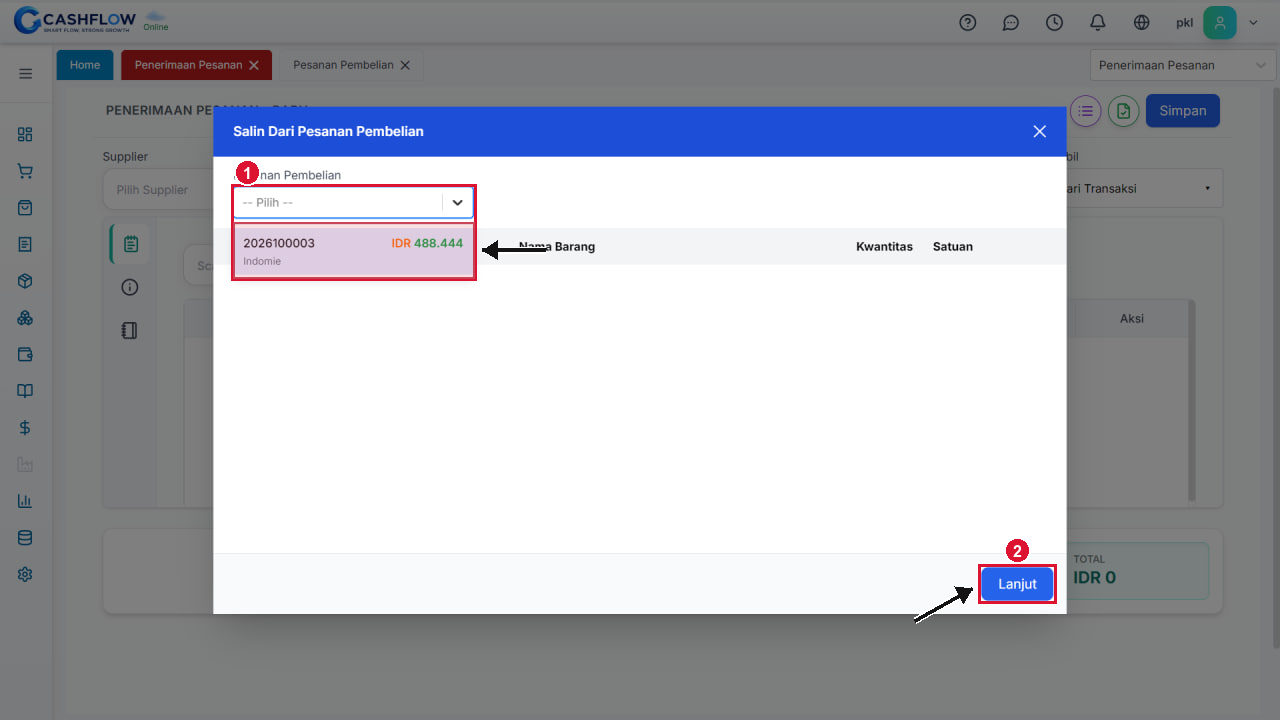
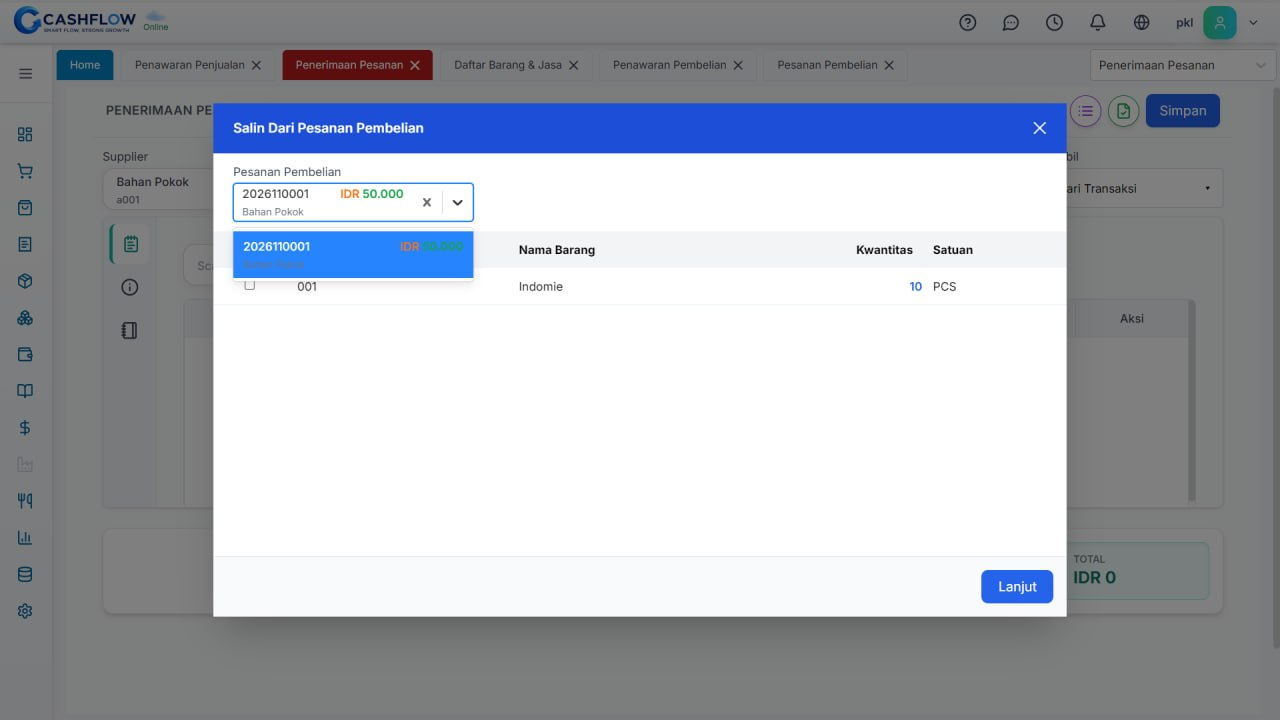
feat(docs): update screenshot aset dan teks langkah penerimaan barang sesuai UI terbaru

diff --git a/web-docs/src/pages/pembelian/02-penerimaan-barang/penerimaan-barang-dari-pesanan.tsx b/web-docs/src/pages/pembelian/02-penerimaan-barang/penerimaan-barang-dari-pesanan.tsx
@@ -45,7 +45,7 @@ export const PenerimaanBarangDariPesanan: React.FC<ArticleProps> = ({ onBack }) 
         <div className="steps-container">
           <div key={1} className="step-section">
             <h3 className="step-title">1. Buka formulir Penerimaan Barang dan Pilih Supplier</h3>
-            <p className="step-description">Masuk ke menu Pembelian ➔ Penerimaan Barang. Pilih nama Supplier yang sesuai dengan supplier penerbit PO.</p>
+            <p className="step-description">Masuk ke menu Pembelian ➔ Penerimaan Barang. Pilih nama Supplier (contoh: Bahan Pokok / a001) yang sesuai dengan pemasok penerbit PO.</p>
             <div className="capture-image-frame" style={{ marginTop: '14px', borderRadius: '8px', overflow: 'hidden', border: '1px solid #cbd5e1', boxShadow: '0 4px 6px -1px rgba(0, 0, 0, 0.08)' }}>
               <div className="capture-header-bar">
                 <div className="window-dots">
@@ -58,7 +58,7 @@ export const PenerimaanBarangDariPesanan: React.FC<ArticleProps> = ({ onBack }) 
                 </div>
               </div>
               <img src="/images/pembelian/cashflow_penerimaan_langkah_1.png" alt="Buka formulir Penerimaan Barang dan Pilih Supplier" style={{ width: '100%', height: 'auto', display: 'block' }} />
-              <div style={{ padding: '8px 12px', background: '#f8fafc', borderTop: '1px solid #e2e8f0', fontSize: '13px', color: '#64748b' }}>Gambar 1: Membuka formulir Penerimaan Barang dan memilih pemasok</div>
+              <div style={{ padding: '8px 12px', background: '#f8fafc', borderTop: '1px solid #e2e8f0', fontSize: '13px', color: '#64748b' }}>Gambar 1: Membuka formulir Penerimaan Barang dan memilih pemasok Bahan Pokok (a001)</div>
             </div>
           </div>
 
@@ -77,14 +77,14 @@ export const PenerimaanBarangDariPesanan: React.FC<ArticleProps> = ({ onBack }) 
                 </div>
               </div>
               <img src="/images/pembelian/cashflow_penerimaan_langkah_2.png" alt="Klik tombol Ambil ➔ Pilih Pesanan Pembelian" style={{ width: '100%', height: 'auto', display: 'block' }} />
-              <div style={{ padding: '8px 12px', background: '#f8fafc', borderTop: '1px solid #e2e8f0', fontSize: '13px', color: '#64748b' }}>Gambar 2: Memilih opsi pengambilan data dari Pesanan Pembelian</div>
+              <div style={{ padding: '8px 12px', background: '#f8fafc', borderTop: '1px solid #e2e8f0', fontSize: '13px', color: '#64748b' }}>Gambar 2: Mengklik opsi Ambil lalu memilih Pesanan Pembelian</div>
             </div>
           </div>
 
           <div key={3} className="step-section">
             <h3 className="step-title">3. Pilih Nomor Transaksi PO dan Klik Lanjut</h3>
-            <p className="step-description">Pilih nomor dokumen PO yang barangnya sedang diterima, centang item barang yang datang, lalu klik tombol Lanjut.</p>
-            <div className="capture-placeholder-frame">
+            <p className="step-description">Pada modal Salin Dari Pesanan Pembelian, pilih nomor transaksi PO terkait (contoh: nomor 2026110001 senilai IDR 50.000 atas item Indomie 10 PCS), periksa rincian barang, lalu klik tombol Lanjut.</p>
+            <div className="capture-image-frame" style={{ marginTop: '14px', borderRadius: '8px', overflow: 'hidden', border: '1px solid #cbd5e1', boxShadow: '0 4px 6px -1px rgba(0, 0, 0, 0.08)' }}>
               <div className="capture-header-bar">
                 <div className="window-dots">
                   <span className="dot red"></span>
@@ -95,13 +95,8 @@ export const PenerimaanBarangDariPesanan: React.FC<ArticleProps> = ({ onBack }) 
                   appcashflow.id/penerimaan-barang
                 </div>
               </div>
-              <div className="capture-body-content">
-                <Camera size={32} className="camera-icon-muted" />
-                <span className="capture-label">Area Tangkapan Layar: Pilih Nomor Transaksi PO dan Klik Lanjut</span>
-                <span className="capture-sublabel">
-                  Aset visual: Dialog pemilihan nomor PO dan checklist item barang yang diterima
-                </span>
-              </div>
+              <img src="/images/pembelian/cashflow_penerimaan_langkah_3.png" alt="Pilih Nomor Transaksi PO dan Klik Lanjut" style={{ width: '100%', height: 'auto', display: 'block' }} />
+              <div style={{ padding: '8px 12px', background: '#f8fafc', borderTop: '1px solid #e2e8f0', fontSize: '13px', color: '#64748b' }}>Gambar 3: Memilih dokumen PO 2026110001 dan mengonfirmasi tombol Lanjut</div>
             </div>
           </div>
 

diff --git a/web-docs/src/pages/pembelian/02-penerimaan-barang/cara-membuat-penerimaan-barang.tsx b/web-docs/src/pages/pembelian/02-penerimaan-barang/cara-membuat-penerimaan-barang.tsx
@@ -64,7 +64,7 @@ export const CaraMembuatPenerimaanBarang: React.FC<ArticleProps> = ({ onBack }) 
 
           <div key={2} className="step-section">
             <h3 className="step-title">2. Isi informasi Supplier dan Cari Barang</h3>
-            <p className="step-description">Pilih nama pemasok pada kolom Supplier (1), tentukan tanggal terima, lalu pada kolom Scan / Cari Barang pilih item barang fisik yang masuk (2).</p>
+            <p className="step-description">Pilih nama pemasok pada kolom Supplier (contoh: Bahan Pokok / a001), tentukan tanggal terima, lalu pada kolom Scan / Cari Barang pilih item barang fisik yang masuk (contoh: Beras).</p>
             <div className="capture-image-frame" style={{ marginTop: '14px', borderRadius: '8px', overflow: 'hidden', border: '1px solid #cbd5e1', boxShadow: '0 4px 6px -1px rgba(0, 0, 0, 0.08)' }}>
               <div className="capture-header-bar">
                 <div className="window-dots">
@@ -77,13 +77,13 @@ export const CaraMembuatPenerimaanBarang: React.FC<ArticleProps> = ({ onBack }) 
                 </div>
               </div>
               <img src="/images/pembelian/cashflow_manual_langkah_2.png" alt="Isi informasi Supplier dan Cari Barang" style={{ width: '100%', height: 'auto', display: 'block' }} />
-              <div style={{ padding: '8px 12px', background: '#f8fafc', borderTop: '1px solid #e2e8f0', fontSize: '13px', color: '#64748b' }}>Gambar 2: Mengisi header dokumen (1) dan memilih item barang pada kolom pencarian (2)</div>
+              <div style={{ padding: '8px 12px', background: '#f8fafc', borderTop: '1px solid #e2e8f0', fontSize: '13px', color: '#64748b' }}>Gambar 2: Mengisi pemasok Bahan Pokok dan memilih item barang pada menu pencarian Scan / Cari Barang</div>
             </div>
           </div>
 
           <div key={3} className="step-section">
             <h3 className="step-title">3. Tentukan Kuantitas dan Tambahkan Barang</h3>
-            <p className="step-description">Pada modal pop-up yang muncul, tentukan kuantitas barang yang diterima secara fisik, lalu klik tombol Tambahkan.</p>
+            <p className="step-description">Pada modal pop-up Tambah Barang, periksa kuantitas barang fisik yang masuk (contoh: 12 KG Beras), pastikan harga satuan terisi (contoh: IDR 15.000 dengan total IDR 180.000,00), lalu klik tombol Tambahkan.</p>
             <div className="capture-image-frame" style={{ marginTop: '14px', borderRadius: '8px', overflow: 'hidden', border: '1px solid #cbd5e1', boxShadow: '0 4px 6px -1px rgba(0, 0, 0, 0.08)' }}>
               <div className="capture-header-bar">
                 <div className="window-dots">
@@ -96,7 +96,7 @@ export const CaraMembuatPenerimaanBarang: React.FC<ArticleProps> = ({ onBack }) 
                 </div>
               </div>
               <img src="/images/pembelian/cashflow_manual_langkah_3.png" alt="Tentukan Kuantitas dan Tambahkan Barang" style={{ width: '100%', height: 'auto', display: 'block' }} />
-              <div style={{ padding: '8px 12px', background: '#f8fafc', borderTop: '1px solid #e2e8f0', fontSize: '13px', color: '#64748b' }}>Gambar 3: Memeriksa kuantitas/harga barang dan mengonfirmasi tombol Tambahkan</div>
+              <div style={{ padding: '8px 12px', background: '#f8fafc', borderTop: '1px solid #e2e8f0', fontSize: '13px', color: '#64748b' }}>Gambar 3: Memeriksa rincian barang (12 KG Beras @15.000 = Rp 180.000,00) pada pop-up Tambah Barang dan mengonfirmasi tombol Tambahkan</div>
             </div>
           </div>
 

diff --git a/docs/pembelian/02-penerimaan-barang/cara-membuat-penerimaan-barang.md b/docs/pembelian/02-penerimaan-barang/cara-membuat-penerimaan-barang.md
@@ -16,19 +16,19 @@ Gunakan cara ini jika barang datang langsung dari supplier tanpa dibuatkan dokum
    ![Menu Pembelian CashFlow](../assets/step1-menu-pembelian.png)
 
 2. **Isi Data Header Transaksi:**
-   - **Supplier:** Pilih rekanan pemasok barang (contoh: `abc / a001`).
+   - **Supplier:** Pilih rekanan pemasok barang (contoh: `Bahan Pokok / a001`).
    - **Mata Uang:** Standar `IDR`.
-   - **Tanggal:** Masukkan tanggal fisik barang tiba (contoh: `10/22/2026`).
+   - **Tanggal:** Masukkan tanggal fisik barang tiba (contoh: `11/09/2026`).
    - **No Pengiriman:** Nomor surat jalan fisik dari pengirim (atau biarkan default `Auto`).
 
 3. **Cari dan Tambah Barang:**
    - Ketik nama barang pada kolom pencarian **Scan / Cari Barang...**.
-   - Sistem akan menampilkan daftar stok dan item yang tersedia di master barang (contoh: `Indomie`, stok `22`).
+   - Sistem akan menampilkan daftar stok dan item yang tersedia di master barang (contoh: `Beras`, `Indomie`, `SUPERMI`).
    ![Pencarian Barang](../assets/step1-cari-barang.png)
 
 4. **Konfigurasi Kuantitas & Harga Beli:**
-   - Pada modal dialog **Tambah Barang**, tentukan kuantitas barang fisik yang masuk (contoh: `2 PCS`).
-   - Pastikan **Harga Satuan** terisi valid (contoh: `IDR 22.202`).
+   - Pada modal dialog **Tambah Barang**, tentukan kuantitas barang fisik yang masuk (contoh: `12 KG` item `Beras`).
+   - Pastikan **Harga Satuan** terisi valid (contoh: `IDR 15.000` dengan subtotal `IDR 180.000,00`).
    - Periksa subtotal barang, lalu klik tombol **Tambahkan**.
    ![Modal Tambah Barang](../assets/step1-tambah-barang-modal.png)
 
@@ -45,7 +45,7 @@ Gunakan cara ini jika perusahaan sebelumnya sudah menerbitkan dokumen Purchase O
 
 1. **Buka Form Baru & Pilih Supplier:**
    - Buka menu **Pembelian** ➔ **Penerimaan Pesanan**.
-   - Pilih nama **Supplier** yang sama dengan data di Purchase Order.
+   - Pilih nama **Supplier** yang sama dengan data di Purchase Order (contoh: `Bahan Pokok / a001`).
 
 2. **Tarik Dokumen Pesanan Pembelian:**
    - Pada sisi kanan form di bagian **Ambil**, klik dropdown **Dari Transaksi**.
@@ -55,7 +55,7 @@ Gunakan cara ini jika perusahaan sebelumnya sudah menerbitkan dokumen Purchase O
 3. **Pilih Nomor Dokumen PO:**
    - Kotak dialog modal **Salin Dari Pesanan Pembelian** akan terbuka.
    - Klik dropdown daftar pesanan pembelian yang masih berstatus terbuka (*outstanding*).
-   - Pilih nomor transaksi PO terkait (contoh: nomor `2026100003` - item `Indomie` senilai `IDR 488.444`).
+   - Pilih nomor transaksi PO terkait (contoh: nomor `2026110001` - item `001 Indomie` kuantitas `10 PCS` senilai `IDR 50.000`).
    ![Salin Dari Pesanan Pembelian](../assets/step2-salin-pesanan-modal.png)
 
 4. **Sesuaikan Kuantitas (Jika Diterima Parsial):**
